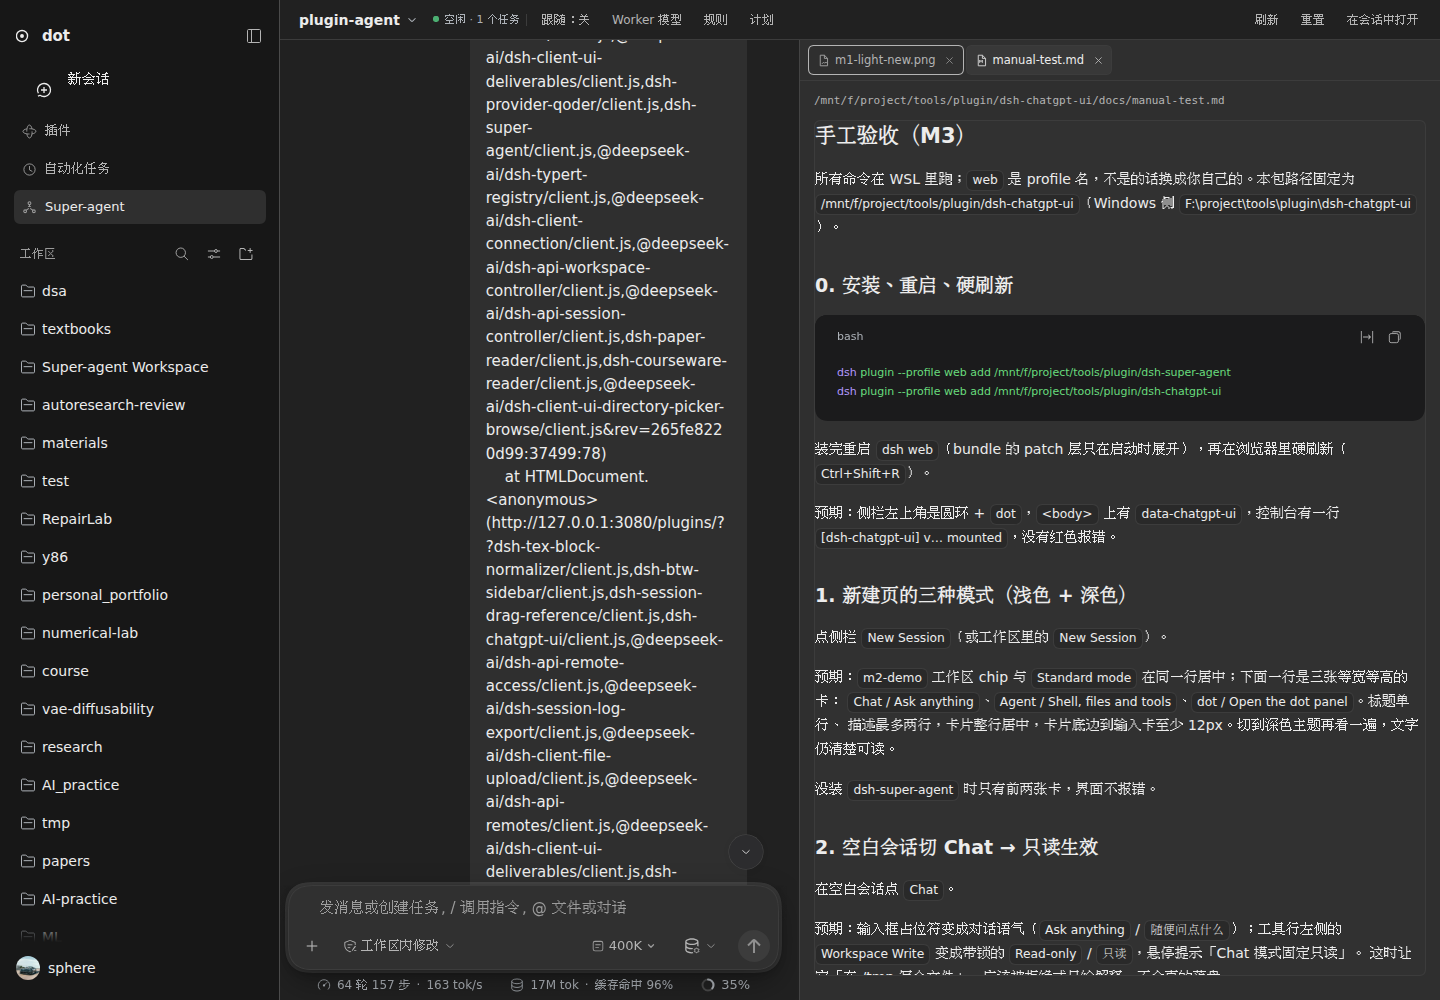
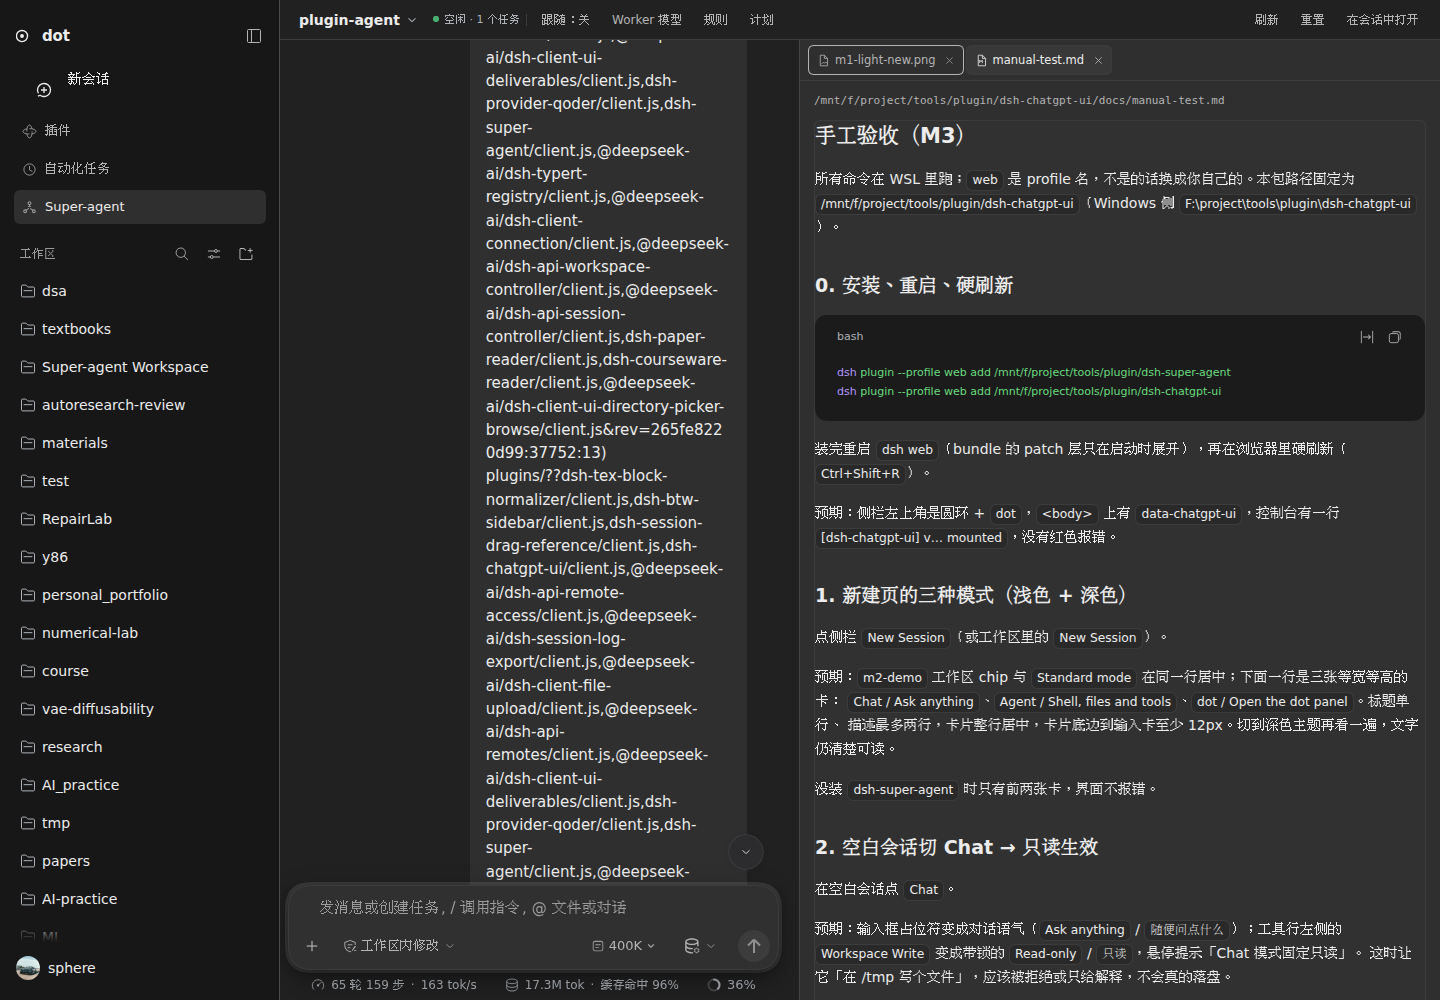
多标签收尾：当前标签自动滚入视野 + 长正文不再被 flex 裁掉
- PreviewColumn 给标签栏加 ref/effect：新增、激活、关闭或改宽后只调标签栏自己的
  scrollLeft，把当前标签滚进可视区（实机 4 标签验证），不碰会话滚动。
- S.previewBody 加 flex: 0 0 auto：flex 列里长 Markdown/代码会被压缩到可视高度、
  再被 overflow:hidden 裁掉（旧单文件预览同样存在）。修后可整列滚；实机验证
  切到别的标签再切回，scrollTop 250 原样保留。
- 截图按真实双标签（PNG + Markdown）重拍。

diff --git a/lib/client.js b/lib/client.js
@@ -974,7 +974,10 @@ window.__ModuleLoader__.load({
         margin: '0 0 10px',
       },
       previewNote: { fontSize: 11.5, lineHeight: 1.6, color: T.textSecondary, opacity: 1, margin: '0 0 10px' },
-      previewBody: { border: `1px solid ${T.borderSubtle}`, borderRadius: 8, background: 'rgba(127,127,127,.035)', overflow: 'hidden' },
+      // `flex: 0 0 auto`：正文不能被 flex 容器压缩——否则长 Markdown/代码会被
+      // `overflow: hidden` 直接裁掉（旧版单文件预览也有这个问题，只是长的少）。
+      // 保持内容高度，让外层 `previewPane` 自己滚。
+      previewBody: { flex: '0 0 auto', border: `1px solid ${T.borderSubtle}`, borderRadius: 8, background: 'rgba(127,127,127,.035)', overflow: 'hidden' },
       previewImage: { display: 'block', maxWidth: '100%', height: 'auto', margin: '0 auto', background: 'transparent' },
       // 预览列头：一排可横向滚动的标签，活动标签高亮，每个标签自带关闭按钮。
       previewHeader: {
@@ -2284,6 +2287,22 @@ window.__ModuleLoader__.load({
       const list = Array.isArray(tabs) ? tabs : []
       const activeTab = list.find((tab) => tab.id === activeId) ?? list[list.length - 1]
       const drag = React.useRef(undefined)
+      const strip = React.useRef(undefined)
+
+      // 标签多了会横向溢出：新增/激活/关闭标签后把当前标签滚进可视区（只动
+      // 标签栏自己的 scrollLeft，不碰会话的滚动）。
+      React.useEffect(() => {
+        const node = strip.current
+        if (node === undefined || node === null || activeTab === undefined) return
+        if (typeof node.getBoundingClientRect !== 'function') return
+        const children = Array.from(node.children ?? [])
+        const current = children.find((child) => child?.getAttribute?.('data-super-agent-preview-tab') === activeTab.id)
+        if (current === undefined || typeof current.getBoundingClientRect !== 'function') return
+        const tabRect = current.getBoundingClientRect()
+        const stripRect = node.getBoundingClientRect()
+        if (tabRect.left < stripRect.left) node.scrollLeft -= stripRect.left - tabRect.left
+        else if (tabRect.right > stripRect.right) node.scrollLeft += tabRect.right - stripRect.right
+      }, [activeTab?.id, list.length, width])
 
       /** 从列的左缘开始拖：向左 = 变宽，向右 = 变窄。 */
       const startDrag = (event) => {
@@ -2311,6 +2330,7 @@ window.__ModuleLoader__.load({
 
       const header = h('div', { style: S.previewHeader },
         h('div', {
+          ref: strip,
           style: S.previewTabScroll,
           className: 'sa-preview-tabs',
           role: 'tablist',
